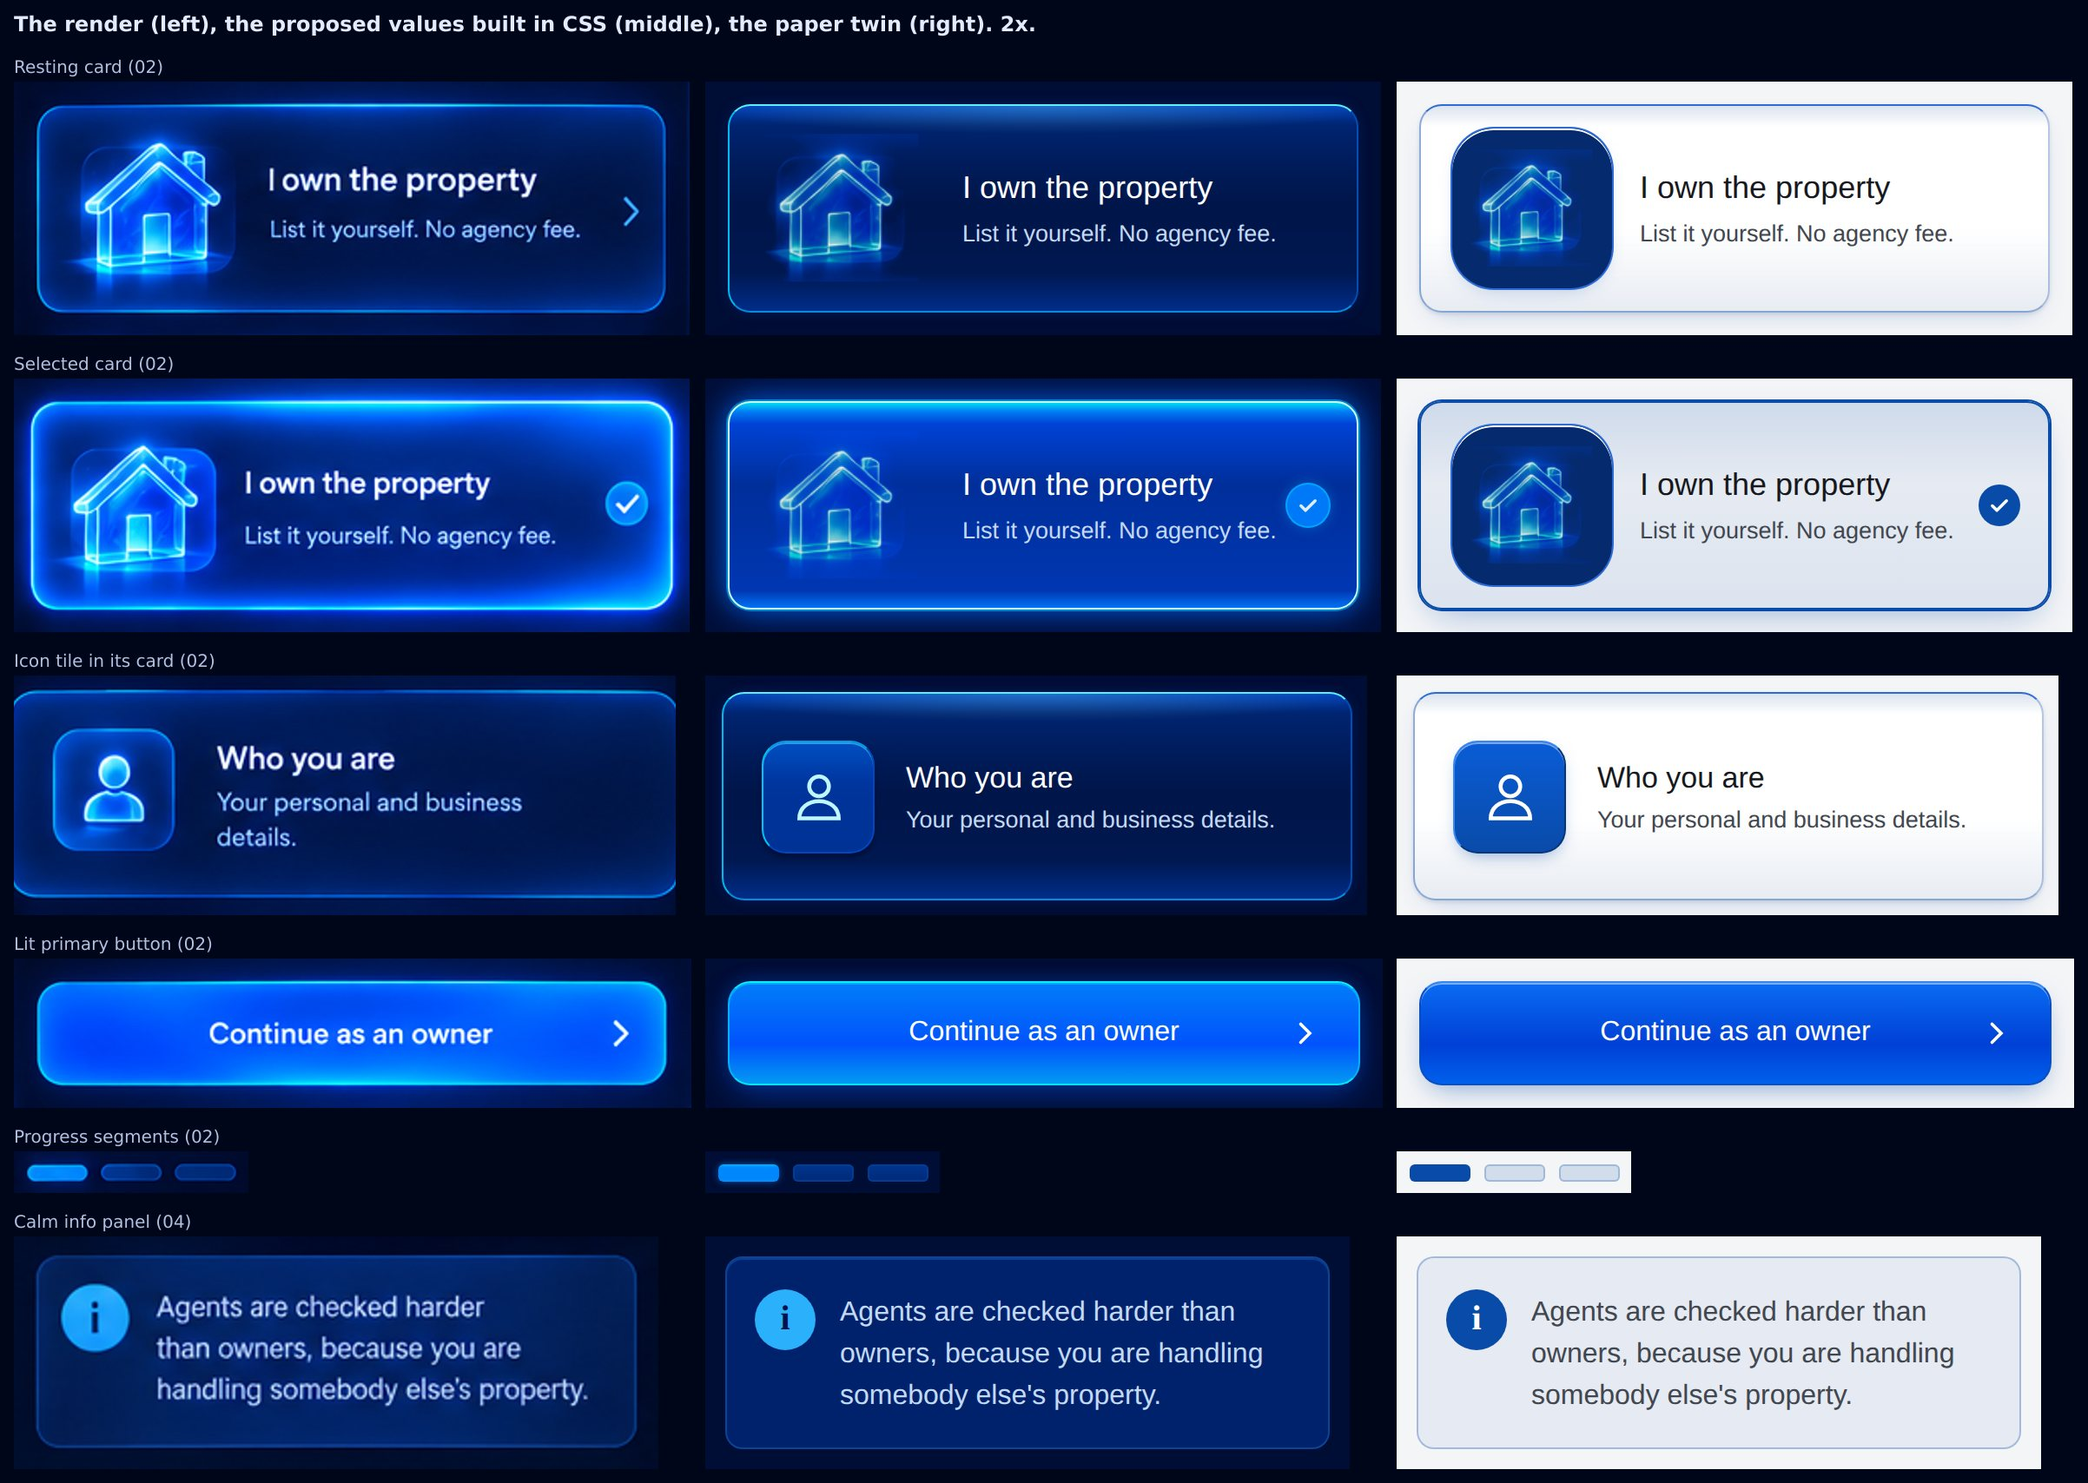
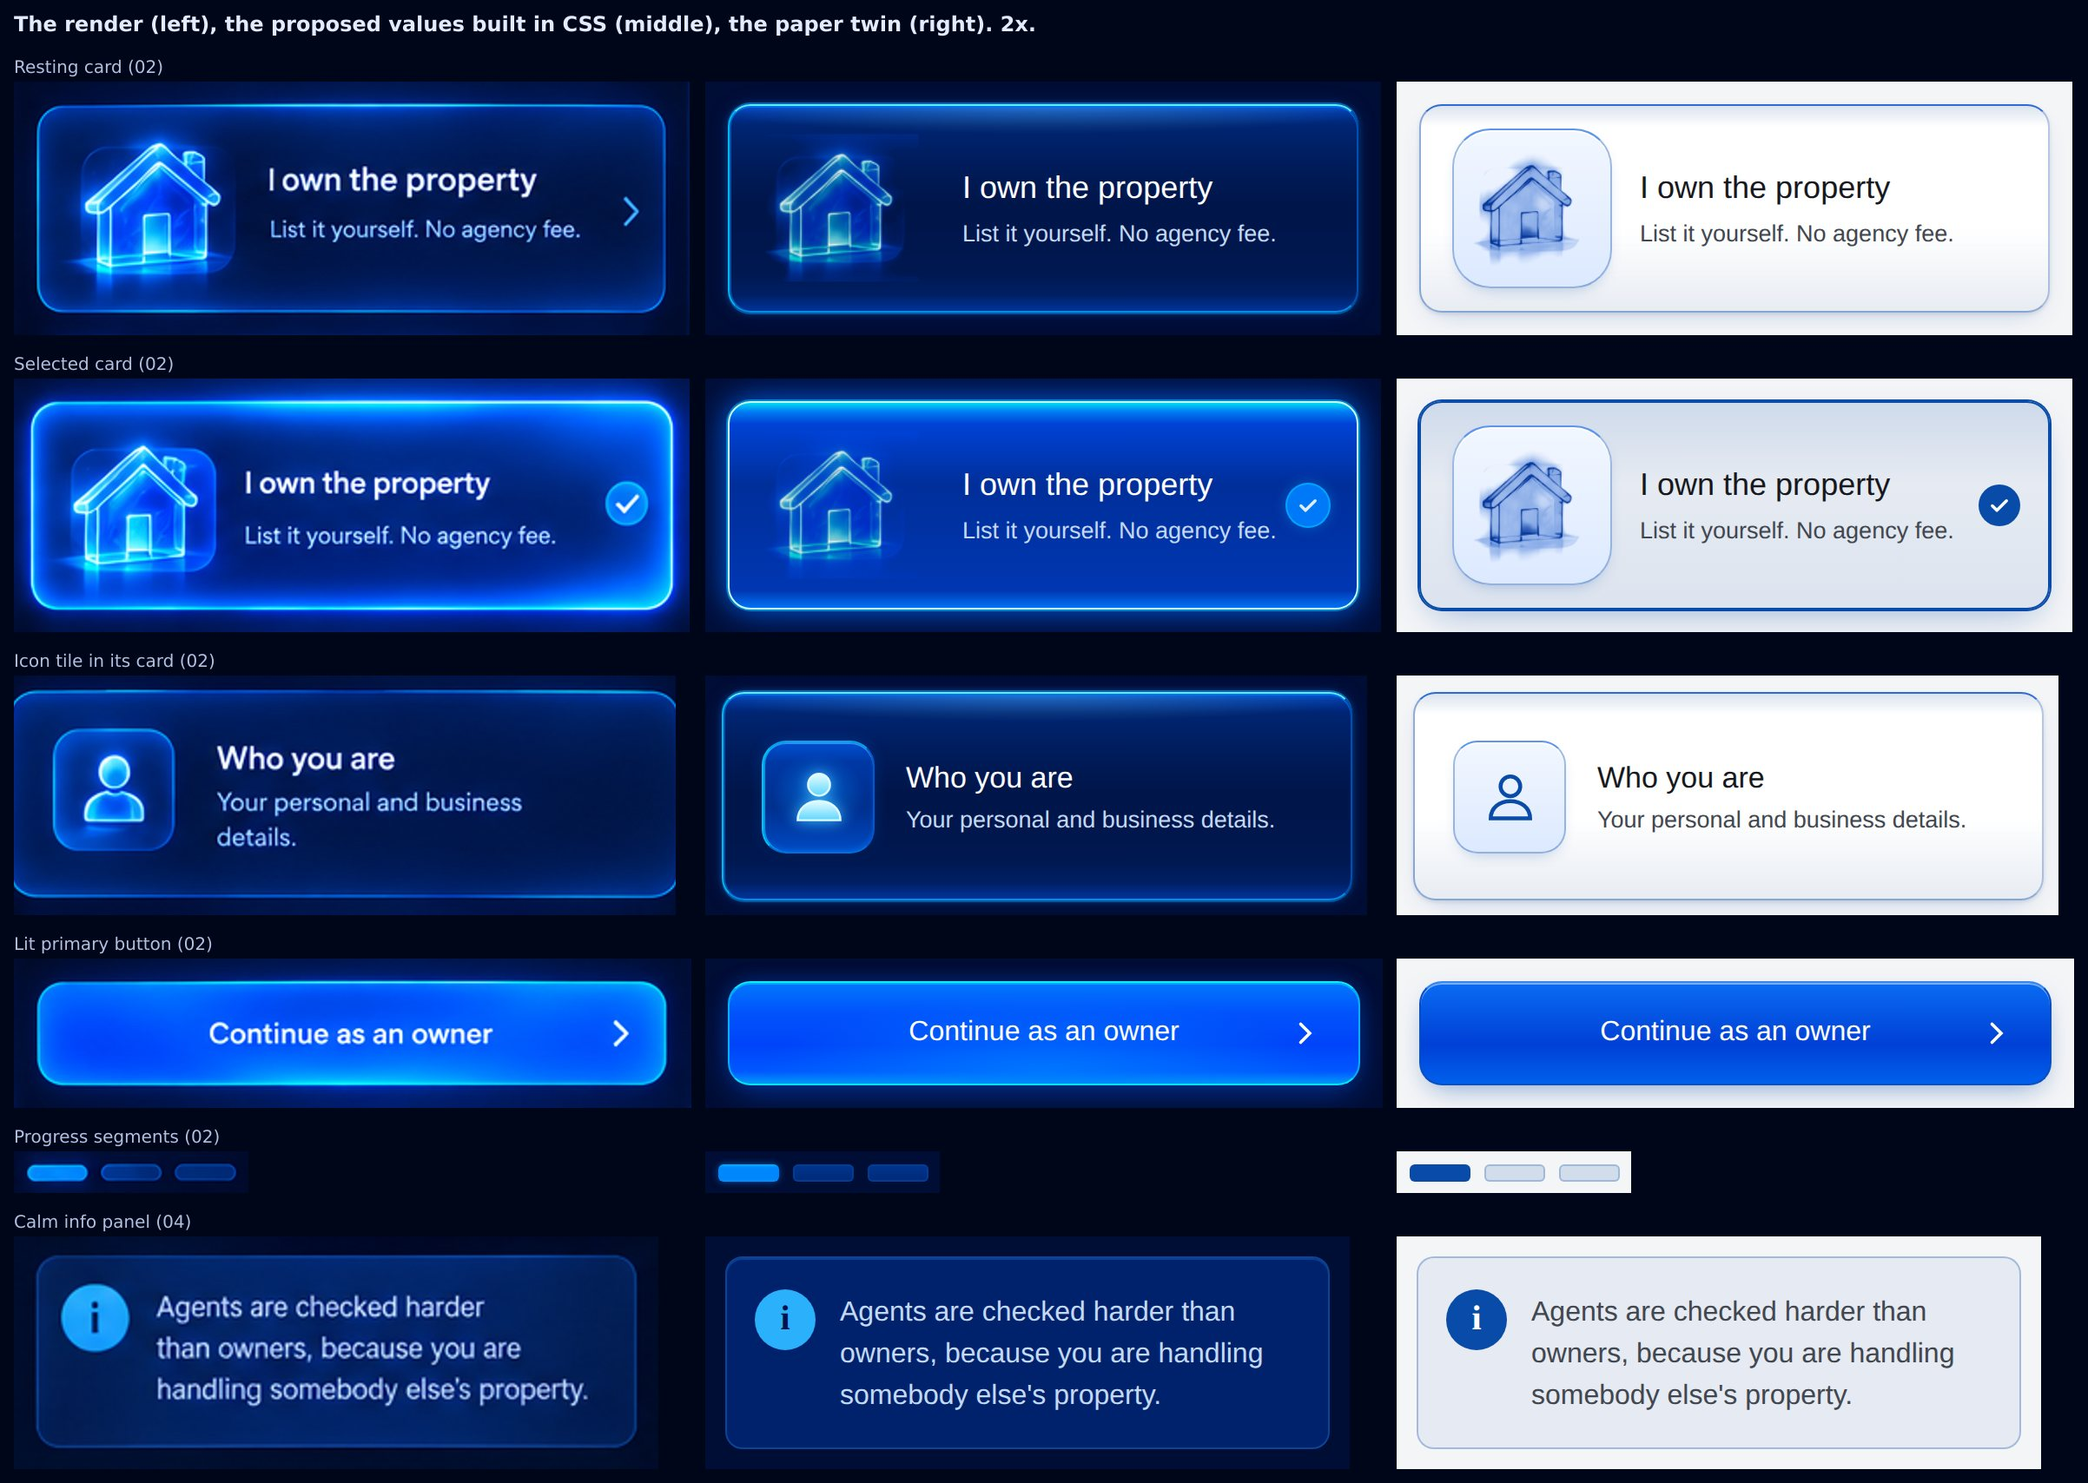
Glow identity revised on review: pale paper tile, brighter card edges, lit tile, button lift
The paper icon tile is a pale glass tile with an ink rendition of the
object, never a dark plate. Dark values re-sampled and raised: the card's
three-row edge bands and small halo, the tile's inner light and glyph
halo, and the lit button's low cyan lift. Proof re-shot.

Claude-Session: https://claude.ai/code/session_019wbtqoDGNqUbtnVxF5CU77

diff --git a/docs/design/GLOW_IDENTITY.md b/docs/design/GLOW_IDENTITY.md
@@ -17,6 +17,13 @@ look is `docs/design/proofs/session-b/identity/identity-side-by-side.jpg`:
 the render on the left, the values below built in plain CSS in the middle,
 the paper twin on the right, at 2x.
 
+**Revised the same evening on the lead's review** (second push): the paper
+icon tile no longer puts a dark plate behind an object (a pale glass tile and
+an ink rendition of the object instead, section 4), and three dark values were
+re-sampled and raised because the first proof read under-lit: the card's edge
+halo and its top and bottom edge bands (section 2), the icon tile's inner
+light (section 4) and the button's lower cyan lift (section 5).
+
 Session B does not edit the tokens. This file is a proposal for Session A to
 adopt into `packages/design-tokens/src/tokens.css` (request in
 `docs/SESSION_B_SCOPE.md`). Each value names the token it would replace or
@@ -95,16 +102,20 @@ from the top left:
 **Radius.** The corner trace runs from x 104 at y 286 to x 93 at y 298:
 13 render px, **12 CSS px** on a 120 CSS card (ratio 0.10).
 
-**Outer glow.** Almost none at rest. Outside the left edge the ground lifts
-from blue 52 to 61 over 8 px; above the second card it lifts about 10 levels
-over 4 px. A 1 px darker line sits just outside the bottom edge (`#000837`
+**Outer glow.** Small but visible at rest. Outside the left edge the ground
+lifts from blue 52 to 66 within 3 px and is back by 8; above the second card
+it lifts about 10 levels over 4 px. The edges read brighter than a 1 px line
+because each is a three-row band: above the top rim `#1074C9`, the rim
+`#58F0FE`, below it `#0075EA`; at the bottom `#002C91`, the edge `#048CE1`,
+then `#0165B7` outside. The first proof drew only the middle row and read dull
+beside the render; the snippet now draws all three. A 1 px darker line sits just outside the bottom edge (`#000837`
 against ground `#00134E`): a contact shadow.
 
 | Proposed | Dark | Paper | Replaces or extends |
 | --- | --- | --- | --- |
 | `--nf-glass-lit-fill` | see snippet: the eight-stop gradient plus the reflection radial | `linear-gradient(180deg, rgb(9 75 169 / 0.10) 0, rgb(255 255 255 / 0.96) 12px, #FFFFFF 60%, rgb(9 75 169 / 0.05) 100%)` | REPLACES `--nf-glass-card-fill` for the lit card role (`--nf-container-fill` points at it) |
 | `--nf-glass-lit-edge` | `#5CF0FE #0050B4 #048CE1 #02B9EF` (a `border-color` list: top right bottom left) | `#2D6BD6 rgb(9 75 169 / 0.30) rgb(9 75 169 / 0.40) rgb(9 75 169 / 0.45)` | EXTENDS `--nf-container-edge` (`#005DE0` at 70 per cent, one colour on four sides) |
-| `--nf-glass-lit-glow` | `0 0 8px rgb(0 90 255 / 0.18)` | `0 1px 2px rgb(9 30 80 / 0.10), 0 6px 16px -8px rgb(9 75 169 / 0.30)` | REPLACES the bloom in `--nf-glow-edge` for resting cards (its `0 0 10px -3px` rung 2 and `0 0 22px -12px` rung 1 are already this quiet; the difference is the per-side edge and the fill, not the glow) |
+| `--nf-glass-lit-glow` | the six-layer list in the snippet: the rows just inside and outside the top and bottom edges (`#0075EA` below the rim, `#1074C9` above it, `#0165B7` below the bottom edge), a 4 px halo `rgb(0 150 255 / 0.38)` and a 12 px field `rgb(0 90 255 / 0.18)` | `0 1px 2px rgb(9 30 80 / 0.10), 0 6px 16px -8px rgb(9 75 169 / 0.30)` | REPLACES the bloom in `--nf-glow-edge` for resting cards (its `0 0 10px -3px` rung 2 and `0 0 22px -12px` rung 1 are already this quiet; the difference is the per-side edge and the fill, not the glow) |
 | `--nf-container-radius` | `12px` measured | same | today `--nf-radius-lg` 18px. The render's card is 6px tighter. |
 
 **The rim is cyan in the render.** `tokens.css` records a deliberate choice
@@ -139,16 +150,28 @@ The "Who you are" tile, 02 screen 3: x 1085 to 1155, y 311 to 381.
 | --- | --- | --- | --- |
 | Size | 70 render px | 65 CSS (a 64 slot) | new `--nf-icon-tile-size: 64px` |
 | Radius | corner trace x 1101 at y 311 to x 1085 at y 324: 14 px, 13 CSS, ratio 0.20 | `--nf-radius-md` 14px | reuse, ratio 0.22 |
-| Fill | blue 181 under the top, 166 at the bottom, over the card's 124: alpha 0.44 of the lit ink, brighter at the top | `linear-gradient(180deg, rgb(0 110 255 / 0.62), rgb(0 90 255 / 0.46) 35%, rgb(0 90 255 / 0.40))` | new `--nf-icon-tile-fill` |
-| Edge | top `#039BEC`, left `#02C2F9` (brightest), bottom and right `#0048C0` | `border-color: #039BEC #0048C0 #0048C0 #02C2F9` | new `--nf-icon-tile-edge` |
-| Inner glow and shadow | 1 px darker line below the tile (`#001A6B` against the card's `#001E60`) | `0 2px 3px rgb(0 0 20 / 0.45), inset 0 1px 0 rgb(80 220 255 / 0.55)` | new `--nf-icon-tile-shadow` |
-| Glyph | white-cyan glass glyph | the roles pack's `-tile` crops ARE this tile, drawn; use them where the tile carries an object | `public/brand/session-b/roles/` |
+| Fill | a 5 px grid across the tile: rows under the top (blue 191 to 203) and above the bottom (199 to 211) are lit, the left column brightest of all (`#02BEF8`), the middle darker (blue 133 to 150) EXCEPT round the glyph, where a halo lifts it to 234 to 254. Lit from inside, not a flat square | `radial-gradient(60% 55% at 50% 48%, rgb(0 140 255 / 0.55), transparent 70%)` over `linear-gradient(180deg, rgb(0 100 255 / 0.72) 0, rgb(0 90 255 / 0.46) 18%, rgb(0 90 255 / 0.38) 60%, rgb(0 100 255 / 0.66) 100%)` | new `--nf-icon-tile-fill` |
+| Edge | top `#039BEC`, left `#02C2F9` (brightest), bottom `#0070E0` with a lit row above it, right `#0058D2` | `border-color: #05A2F1 #0058D2 #0070E0 #02C2F9` | new `--nf-icon-tile-edge` |
+| Inner light and shadow | the left column and the top and bottom rows lit; a soft glow a few px outside; a 1 px darker line below (`#001A6B` against the card's `#001E60`) | `inset 1px 0 0 rgb(2 190 248 / 0.7), inset 0 1px 0 rgb(80 200 255 / 0.55), inset 0 -2px 3px -1px rgb(0 120 240 / 0.6), 0 0 8px rgb(0 120 255 / 0.25), 0 2px 3px rgb(0 0 20 / 0.4)` | new `--nf-icon-tile-shadow` |
+| Glyph | a FILLED glass glyph, white at the top to `#5FD6FF`, with its own halo | filled glyph plus `filter: drop-shadow(0 0 4px rgb(80 200 255 / 0.8))`; the roles pack's `-tile` crops ARE this tile, drawn, where the tile carries an object | new `--nf-icon-tile-glyph-glow`; `public/brand/session-b/roles/` |
 
-On paper the tile becomes a solid brand plate: `linear-gradient(180deg, #0A5CD6, #094BA9)`,
-edge `#3A86F0 #06357A #06357A #3A86F0`, `inset 0 1px 0 rgb(255 255 255 / 0.45)`,
-`0 4px 10px -4px rgb(9 75 169 / 0.5)`, glyph white. That is the "framed
-plate" the light survey prescribes (option c), drawn as a tile rather than as
-a chip behind one.
+**On paper the tile is a pale glass tile, never a dark plate.** The first
+proof put the dark artwork on a navy plate on a white card, which is the
+"dark plates behind icons on a white page" defect `docs/research/LIGHT_MODE_SURVEY.md`
+condemns. The paper tile is `linear-gradient(180deg, #F2F7FF 0%, #DCE9FF 100%)`,
+edge `#5B95EE` on top and `rgb(9 75 169 / 0.35)` to `0.40` round the rest,
+`inset 0 1px 0 #FFFFFF`, `0 4px 10px -6px rgb(9 75 169 / 0.45)`, and the glyph
+in `#094BA9`.
+
+**And the object on it is the paper rendition, not the night file.** A night
+object keyed for a dark ground goes green and washed on white, and its faint
+outer bloom shows as a pale square. Every object in the roles pack therefore
+ships a `-day` twin, cut by the same script from the same key: the faint bloom
+below alpha 50 is dropped, and each pixel is re-inked on the brand ramp by how
+lit it was, from `#9CC2FF` (glass body) to `#06379A` (the brightest edges), so
+the object reads as blue glass drawn on paper, with its edges darkest where
+the night file is brightest. It is a derived rendition, not commissioned light
+artwork, and it says so in `SOURCES.md`. See the right-hand column of the proof.
 
 ## 5. The lit primary button
 
@@ -168,11 +191,17 @@ Three buttons measured with `measure-glow.mjs`:
 | Bloom below | +12 to +14 L steady from 8 to 24 px (the bezel glow takes over at 32) | +14 at 4, +9 at 8, +6 at 16 to 32 | +3 to +4 |
 
 02 and 03 agree and 06 is a flatter drawing, so the proposal is 02's (the
-image the founder sent first):
+image the founder sent first). Re-sampled after the lead's review, the lower
+half is where the light is: down the left third the fill falls from `#0077FC`
+to the floor `#0043F9` at 62 per cent and climbs back through `#0058FF` to
+`#0288F9` two rows from the bottom and `#00D1FD` on the bottom edge; across
+the row 8 px above the bottom, the middle (`#0078FF` at x 800) is 45 green
+levels above the ends (`#004AFC` at x 620). That is a cyan lift centred low,
+which the radial layer draws:
 
 | Proposed | Dark | Paper | Replaces |
 | --- | --- | --- | --- |
-| `--nf-gradient-cta` | `linear-gradient(180deg, #017DF9 0%, #0153FC 61%, #029AF2 100%)` | `linear-gradient(180deg, #0A6BF2 0%, #0040D6 61%, #0060EC 100%)` (today's paper stops, the floor moved to 61) | REPLACES today's `#0074FC 0%, #0042FD 64%, #0069F7 100%`. The measured difference is the bottom: the render lifts to a cyan-blue `#029AF2`, a light reflected up off the page. Ours ends at `#0069F7`. |
+| `--nf-gradient-cta` | `radial-gradient(45% 75% at 50% 88%, rgb(0 128 255 / 0.75), transparent)` over `linear-gradient(180deg, #0177FC 0%, #0153FC 30%, #0043F9 62%, #0058FF 88%, #0288F9 97%, #029AF2 100%)` | `linear-gradient(180deg, #0A6BF2 0%, #0040D6 61%, #0060EC 100%)` (today's paper stops, the floor moved to 61) | REPLACES today's `#0074FC 0%, #0042FD 64%, #0069F7 100%`. The measured difference is the bottom: the render lifts to a cyan-blue `#029AF2`, a light reflected up off the page. Ours ends at `#0069F7`. |
 | `--nf-cta-edge` (new) | `#0BEEFC #02B3FB #01E5FE #02B3FB` | `#3A86F0 #0A4FC0 #0A4FC0 #0A4FC0` | new; today the button has no drawn border |
 | `--nf-rim-primary` | `inset 0 1px 0 #05A9F8` | `inset 0 1px 0 rgb(255 255 255 / 0.45)` | REPLACES the white 30 per cent specular with the measured blue rim |
 | `--nf-bloom-lit` | `0 6px 18px -2px rgb(0 90 255 / 0.45), 0 -2px 10px rgb(0 90 255 / 0.20)` | `0 6px 16px -6px rgb(9 75 169 / 0.55)` | today `0 0 24px rgb(12 106 239 / 0.5), 0 0 88px rgb(12 106 239 / 0.14)`. On these renders the light below the button is steady for 24 px and the light above is gone by 12, so the measured bloom is offset downward. Today's token note argues for zero offset from a different render; both readings belong in the ledger and the images decide. |
@@ -252,14 +281,22 @@ an existing token is replaced the comment says so.
   --nf-glass-lit-fill:
     radial-gradient(55% 16px at 50% 0, rgb(120 235 255 / 0.28), transparent),
     linear-gradient(180deg,
-      rgb(var(--nf-lit-ink) / 0.66) 0px,
-      rgb(var(--nf-lit-ink) / 0.30) 11px,
+      rgb(var(--nf-lit-ink) / 0.80) 0px,
+      rgb(var(--nf-lit-ink) / 0.52) 4px,
+      rgb(var(--nf-lit-ink) / 0.31) 11px,
       rgb(var(--nf-lit-ink) / 0.19) 34px,
       rgb(var(--nf-lit-ink) / 0.10) 50%,
       rgb(var(--nf-lit-ink) / 0.14) calc(100% - 22px),
-      rgb(var(--nf-lit-ink) / 0.42) 100%);
+      rgb(var(--nf-lit-ink) / 0.24) calc(100% - 9px),
+      rgb(var(--nf-lit-ink) / 0.50) 100%);
   --nf-glass-lit-edge: #5CF0FE #0050B4 #048CE1 #02B9EF; /* border-color: top right bottom left */
-  --nf-glass-lit-glow: 0 0 8px rgb(var(--nf-lit-ink) / 0.18);
+  --nf-glass-lit-glow:
+    inset 0 1px 0 rgb(0 117 234 / 0.9),
+    inset 1px 0 0 rgb(0 92 189 / 0.8),
+    0 -1px 0 rgb(16 116 201 / 0.8),
+    0 1px 0 rgb(1 101 183 / 0.8),
+    0 0 4px rgb(0 150 255 / 0.38),
+    0 0 12px rgb(var(--nf-lit-ink) / 0.18);
 
   /* SELECTED */
   --nf-glass-selected-fill:
@@ -280,12 +317,22 @@ an existing token is replaced the comment says so.
 
   /* ICON TILE */
   --nf-icon-tile-size: 64px;
-  --nf-icon-tile-fill: linear-gradient(180deg, rgb(0 110 255 / 0.62), rgb(var(--nf-lit-ink) / 0.46) 35%, rgb(var(--nf-lit-ink) / 0.40));
-  --nf-icon-tile-edge: #039BEC #0048C0 #0048C0 #02C2F9;
-  --nf-icon-tile-shadow: 0 2px 3px rgb(0 0 20 / 0.45), inset 0 1px 0 rgb(80 220 255 / 0.55);
+  --nf-icon-tile-fill:
+    radial-gradient(60% 55% at 50% 48%, rgb(0 140 255 / 0.55), transparent 70%),
+    linear-gradient(180deg, rgb(0 100 255 / 0.72) 0, rgb(0 90 255 / 0.46) 18%, rgb(0 90 255 / 0.38) 60%, rgb(0 100 255 / 0.66) 100%);
+  --nf-icon-tile-edge: #05A2F1 #0058D2 #0070E0 #02C2F9;
+  --nf-icon-tile-shadow:
+    inset 1px 0 0 rgb(2 190 248 / 0.7),
+    inset 0 1px 0 rgb(80 200 255 / 0.55),
+    inset 0 -2px 3px -1px rgb(0 120 240 / 0.6),
+    0 0 8px rgb(0 120 255 / 0.25),
+    0 2px 3px rgb(0 0 20 / 0.4);
+  --nf-icon-tile-glyph-glow: drop-shadow(0 0 4px rgb(80 200 255 / 0.8));
 
   /* LIT PRIMARY. Replaces --nf-gradient-cta, --nf-rim-primary, --nf-bloom-lit. */
-  --nf-gradient-cta: linear-gradient(180deg, #017DF9 0%, #0153FC 61%, #029AF2 100%);
+  --nf-gradient-cta:
+    radial-gradient(45% 75% at 50% 88%, rgb(0 128 255 / 0.75), transparent),
+    linear-gradient(180deg, #0177FC 0%, #0153FC 30%, #0043F9 62%, #0058FF 88%, #0288F9 97%, #029AF2 100%);
   --nf-cta-edge: #0BEEFC #02B3FB #01E5FE #02B3FB;
   --nf-rim-primary: inset 0 1px 0 #05A9F8;
   --nf-bloom-lit: 0 6px 18px -2px rgb(var(--nf-lit-ink) / 0.45), 0 -2px 10px rgb(var(--nf-lit-ink) / 0.20);
@@ -321,9 +368,11 @@ an existing token is replaced the comment says so.
   --nf-glass-selected-glow: 0 0 0 1px #094BA9, 0 8px 22px -8px rgb(9 75 169 / 0.45);
   --nf-tick-fill: #094BA9;
   --nf-tick-ring: transparent;
-  --nf-icon-tile-fill: linear-gradient(180deg, #0A5CD6, #094BA9);
-  --nf-icon-tile-edge: #3A86F0 #06357A #06357A #3A86F0;
-  --nf-icon-tile-shadow: 0 4px 10px -4px rgb(9 75 169 / 0.5), inset 0 1px 0 rgb(255 255 255 / 0.45);
+  /* a PALE glass tile on paper, never a dark plate; objects on it use their -day rendition */
+  --nf-icon-tile-fill: linear-gradient(180deg, #F2F7FF 0%, #DCE9FF 100%);
+  --nf-icon-tile-edge: #5B95EE rgb(9 75 169 / 0.35) rgb(9 75 169 / 0.40) rgb(9 75 169 / 0.35);
+  --nf-icon-tile-shadow: inset 0 1px 0 #FFFFFF, 0 4px 10px -6px rgb(9 75 169 / 0.45);
+  --nf-icon-tile-glyph-glow: none;
   --nf-gradient-cta: linear-gradient(180deg, #0A6BF2 0%, #0040D6 61%, #0060EC 100%);
   --nf-cta-edge: #3A86F0 #0A4FC0 #0A4FC0 #0A4FC0;
   --nf-rim-primary: inset 0 1px 0 rgb(255 255 255 / 0.45);
@@ -349,6 +398,7 @@ an existing token is replaced the comment says so.
 .icon-tile    { inline-size: var(--nf-icon-tile-size); aspect-ratio: 1; border-radius: var(--nf-radius-md);
                 border: 1px solid; border-color: var(--nf-icon-tile-edge); background: var(--nf-icon-tile-fill);
                 box-shadow: var(--nf-icon-tile-shadow); }
+.icon-tile > svg { filter: var(--nf-icon-tile-glyph-glow); }  /* glyph ink: #BFF6FF at night, #094BA9 on paper */
 .lit-button   { border-radius: var(--nf-radius-control); border: 1px solid; border-color: var(--nf-cta-edge);
                 background: var(--nf-gradient-cta); box-shadow: var(--nf-rim-primary), var(--nf-bloom-lit); }
 .progress-seg { block-size: 10px; border-radius: 3px; background: var(--nf-progress-off);
@@ -377,7 +427,8 @@ Still short of the render, and why:
 - **Type.** The harness uses the system sans; the product's Poppins and Inter
   are not part of this proposal.
 - **The icon tile's own specular** (a diagonal sheen across the glass) is in
-  the render's pixels, not in the CSS. Where the tile carries an object, the
+  the render's pixels, not in the CSS, and the render's glyph is a drawn glass
+  person where the harness has a filled SVG. Where the tile carries an object, the
   cropped `-tile` objects in `apps/web/public/brand/session-b/roles/` carry it.
 - **The ground.** The harness paints the render's `#000D34`. On our canvas
   `#000612` every alpha reads slightly deeper (section 0).
